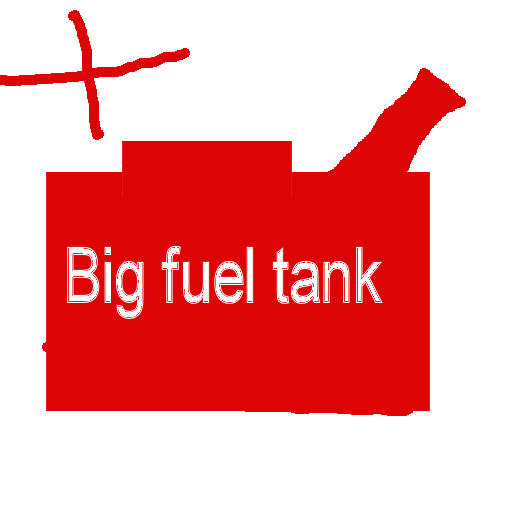
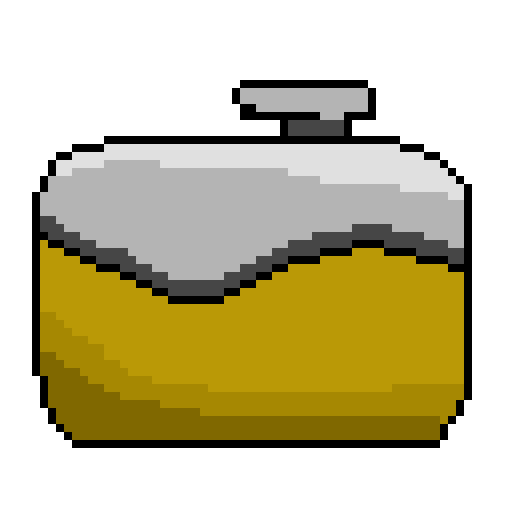
Fuel Stop and Bigger Fuel tank images revised along with changing the size of the fuel stop in the simulator controller for improved visiblity

diff --git a/src/main/java/seng201/team0/gui/SimulatorController.java b/src/main/java/seng201/team0/gui/SimulatorController.java
@@ -156,8 +156,8 @@ public class SimulatorController {
         double paneWidth = headerPane.getWidth();
         double carWidth = 40;
         double areaWidth = paneWidth - carWidth;
-        double gasStopWidth = 10;
-        double gasStopHeight = 20;
+        double gasStopWidth = 30;
+        double gasStopHeight = 30;
         double pixelsPerKilometre = areaWidth / race.getDistanceKilometers();
         Image gasStopIcon = new Image("file:src/main/resources/designs/fuelStopIcon.png");
 
